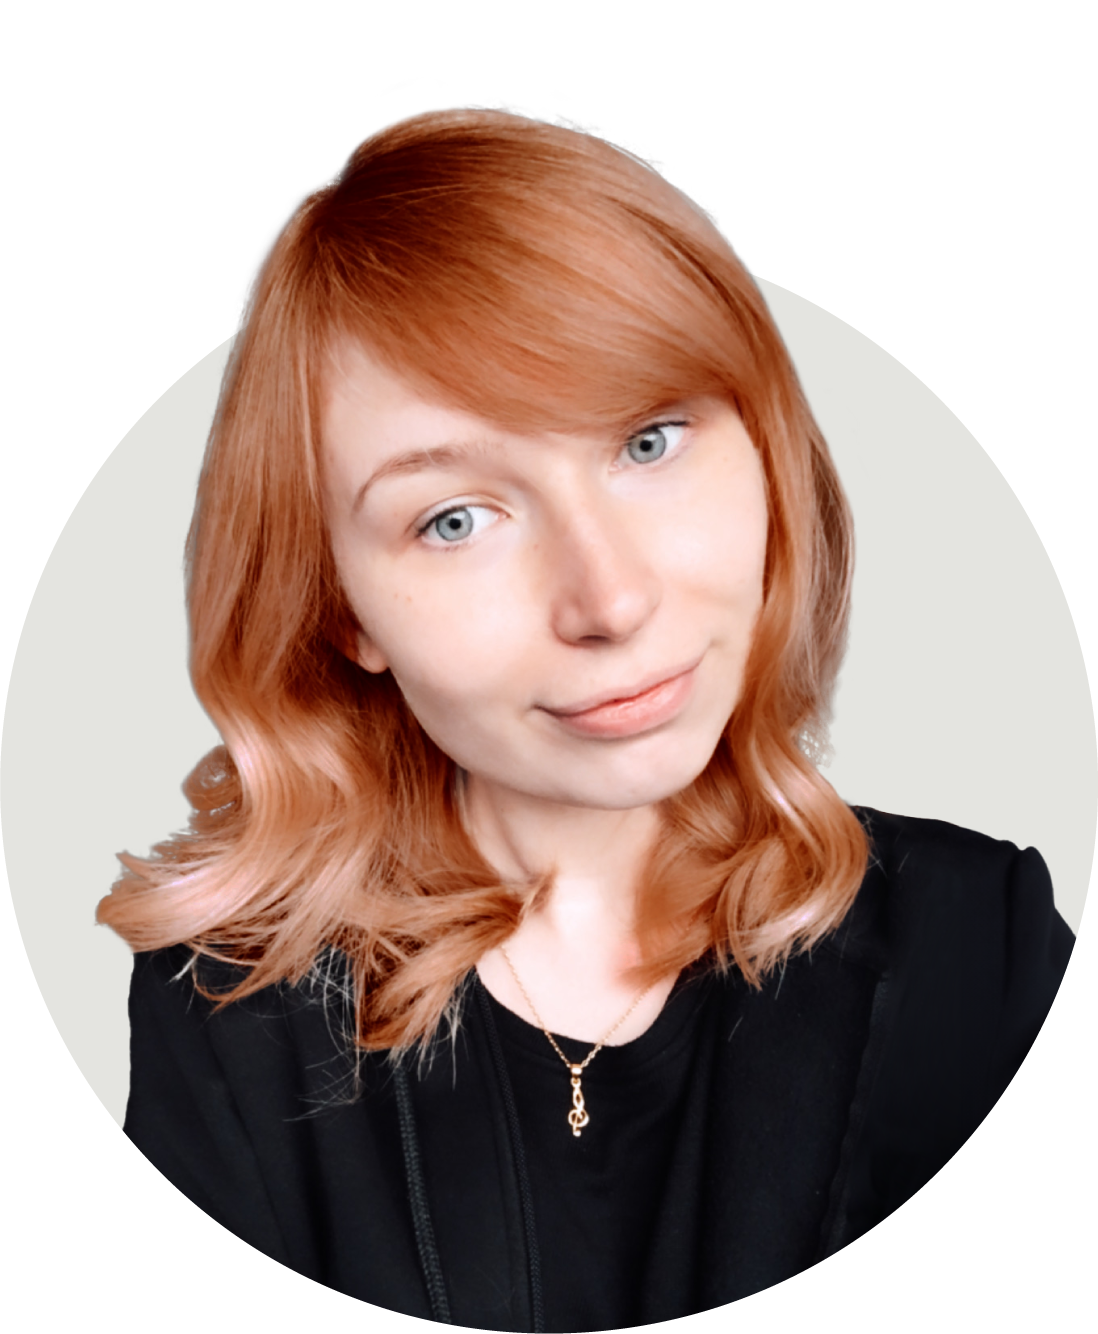
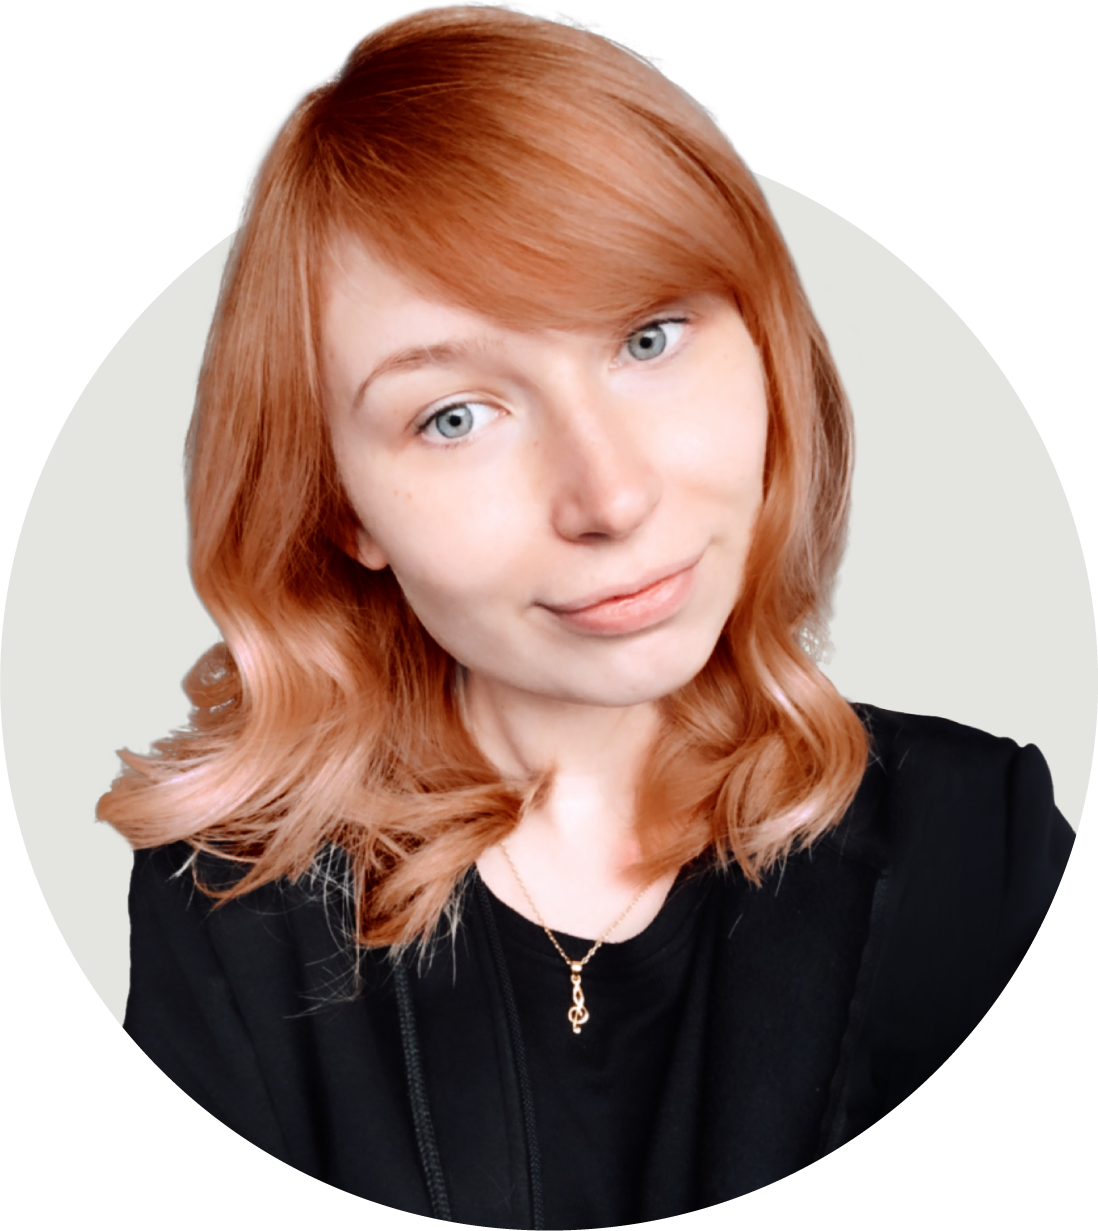
profile pic adding

diff --git a/style.css b/style.css
@@ -107,7 +107,7 @@ section.welcome {
 section.about {
   margin-left: auto;
   margin-right: auto;
-  width: 50%;
+  width: 60%;
   padding-top: 60px;
   padding-bottom: 80px;
 }
@@ -261,8 +261,6 @@ section.project {
 
 .centered {
   position: relative;
-  width: 80%;
-  padding-top: 50px;
   top: 50%;
   left: 50%;
   -webkit-transform: translate(-50%, -50%);
@@ -278,6 +276,20 @@ section.project {
 .skills > div {
   width: 25%;
   margin-bottom:20px;
+}
+
+.aboutflex {
+  display: flex;
+  flex-wrap: nowrap;
+  padding-bottom:40px;
+  width:100%;
+  margin-left: auto;
+  margin-right: auto;
+}
+
+.aboutflex > div {
+  width: 50%;
+  margin: 20px;
 }
 
 .popuptitle {
@@ -300,10 +312,6 @@ section.project {
 .servicesflex > div {
   width: 50%;
   margin: 20px;
-}
-
-#servicesimg {
-  width: 80%;
 }
 
 .timeline{
@@ -420,8 +428,7 @@ button {
   color: #fff;
   background: #555;
   border: none;
-  padding: 0px 40px;
-  height: 40px;
+  padding: 10px 40px;
   cursor: pointer;
   font-size: clamp(14px, 2vw, 16px);
   font-family: "Kanit", sans-serif;
@@ -486,7 +493,7 @@ button:hover {
   }
 
   section.about {
-    width: 80%;
+    width: 60%;
     padding-top: 10%;
     padding-bottom: 13%;
   }
@@ -532,13 +539,34 @@ button:hover {
     width: 80%;
   }
 
+  .aboutflex {
+    display: flex;
+    flex-wrap: wrap;
+    width: 80%;
+    margin-left: auto;
+    margin-right: auto;
+  }
+
+  .aboutflex > div {
+    width:100%;
+    margin: 0px;
+  }
+
+  .servicesflex {
+    display: flex;
+    flex-wrap: wrap;
+    width: 70%;
+    margin-left: auto;
+    margin-right: auto;
+  }
+
   .servicesflex > div {
     width: 100%;
     margin: 20px;
     margin-bottom:30px;
   }
 
-  .servicesflex {
+  .steps {
     display: flex;
     flex-wrap: wrap;
     width: 70%;
@@ -551,20 +579,8 @@ button:hover {
     margin: 20px;
   }
 
-  .steps {
-    display: flex;
-    flex-wrap: wrap;
-    width: 70%;
-    margin-left: auto;
-    margin-right: auto;
-  }
-
   .form-popup {
     width:90%;
-  }
-
-  #stepsimg {
-    width:60%;
   }
 
 }
@@ -580,12 +596,8 @@ button:hover {
     font-size: clamp(12px, 2vw, 14px);
   }
 
-  .servicesflex, .steps {
-    width:90%;
-  }
-
-  #stepsimg {
-    width:60%;
+  .aboutflex, .servicesflex, .steps {
+    width:100%;
   }
 
 }
@@ -599,10 +611,6 @@ button:hover {
 
   h3 {
     font-size: clamp(10px, 2vw, 12px);
-  }
-
-  .centered {
-    width:90%;
   }
 
 }

diff --git a/index.html b/index.html
@@ -61,12 +61,20 @@
 
     <section class="about" id="about">
 
-      <p><h1>Hi, <i>I'm</i> <b>Alex.</b></h1></p>
-      
-      <p>I'm a creative problem solver and visual storyteller with the best part of a decade experience in graphic design. 
-      I help ambitious self-starters and business owners turn their big ideas into compelling visual solutions.</p>
+      <div class="aboutflex">
 
-      <a href="#contact"><button>Ready to bring your story to life?</button></a>
+      <div><div class="centered"><img src="Assets/profile.png" style="width:100%;"></div></div>
+
+      <div><div class="centered">
+        <p><h1>Hi, <i>I'm</i> <b>Alex.</b></h1></p>
+        <p>I'm a creative problem solver and visual storyteller with the best part of a decade experience in graphic design. 
+        I help ambitious self-starters and business owners turn their big ideas into compelling visual solutions.</p>
+        </div>
+      </div>
+
+      </div>
+
+      <a href="#contact"><button>Bring your brand story to life</button></a>
 
     </section>
 
